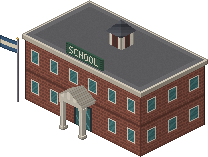
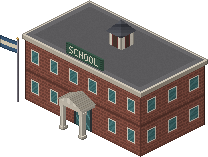
School: portico under the upstairs windows
The pediment rose past the upstairs sills and cut the corners of the two
windows over the entrance. Columns, beam and pediment are lower now; the
peak stays under the sills and the beam over the door.

Changed region(s): [[0.2596, 0.535, 0.4615, 0.7389]]

diff --git a/tools/art.py b/tools/art.py
@@ -1414,11 +1414,12 @@ def school(seed):
                 (0.43, 0.57))
     cornice(s, x0, y0, a, b, hgt)
     flat_roof(s, x0, y0, a, b, hgt + 1, "#5b5a5c", units=0)
-    # Entrance: two columns and a pediment over the door.
+    # Entrance: two columns and a pediment over the door, low enough that
+    # the pediment stays under the upstairs windows' sills.
     px0, pw = x0 + a * 0.4, a * 0.2
-    column_row(s, px0 + 0.03, px0 + pw - 0.03, y0 + b + 0.16, 0, 30, 2)
-    s.box(px0, y0 + b, 30, pw, 0.2, 4, flat(s, "#e0d8c8"), flat(s, "#cfc6b6"), flat(s, "#b8b0a2"))
-    gable(s, px0, y0 + b, pw, 0.2, 34, 9, ramp("#cfc6b6", "#c4baa8"), "#e0d8c8", "v", 0.02)
+    column_row(s, px0 + 0.03, px0 + pw - 0.03, y0 + b + 0.16, 0, 26, 2)
+    s.box(px0, y0 + b, 26, pw, 0.2, 4, flat(s, "#e0d8c8"), flat(s, "#cfc6b6"), flat(s, "#b8b0a2"))
+    gable(s, px0, y0 + b, pw, 0.2, 30, 7, ramp("#cfc6b6", "#c4baa8"), "#e0d8c8", "v", 0.02)
     wall_sign(s, x0 + a / 2, y0 + b - 0.05, hgt + 1, 0.56, "SCHOOL", "#3a5a4a", "#e8e0cc")
     # Bell cupola on the roof.
     cx, cy = x0 + a * 0.5 - 0.1, y0 + b * 0.3
